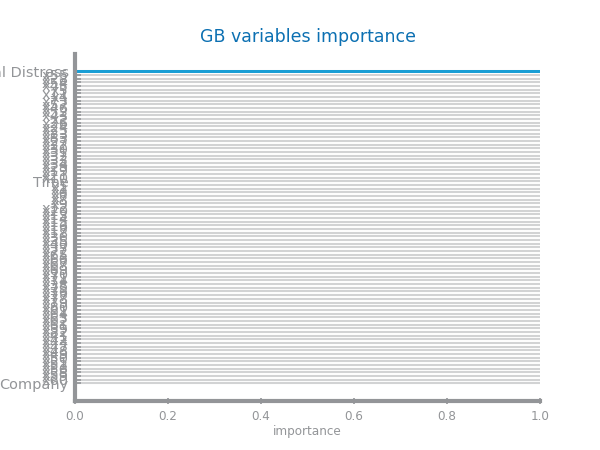
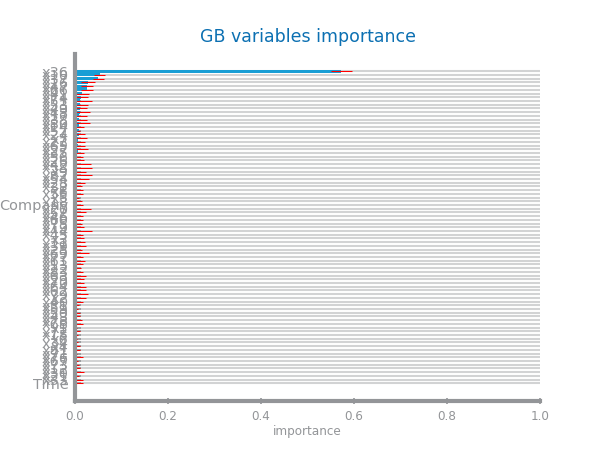
RF e GB sem variavel

Changed region(s): [[0.0, 0.1556, 0.9, 0.8711]]

diff --git a/Classification/drop_financial_distress.py b/Classification/drop_financial_distress.py
@@ -25,8 +25,8 @@ def drop_column(input_file: str, output_file: str, column_to_drop: str) -> None:
 
 # Example usage
 if __name__ == "__main__":
-    input_path = "Data/test_class_financial_distress_smote.csv"        # Replace with your input file path
-    output_path = "Data/test_class_financial_distress_smote.csv"       # Replace with your desired output file path
+    input_path = "Data/train_class_financial_distress_smote.csv"        # Replace with your input file path
+    output_path = "Data/train_class_financial_distress_smote.csv"       # Replace with your desired output file path
     column_name = "Financial Distress" # Replace with the column name to drop
     
     drop_column(input_path, output_path, column_name)

diff --git a/Feature_Engineering/processing_feature_selection_redundant_variables_economical.py b/Feature_Engineering/processing_feature_selection_redundant_variables_economical.py
@@ -1,13 +1,13 @@
 from pandas import Series
 from pandas import DataFrame, Index, read_csv
-from Classification.dslabs_functions import (
+from dslabs_functions import (
     select_redundant_variables,
     study_redundancy_for_feature_selection,
      apply_feature_selection
 )
 from math import ceil
 from matplotlib.pyplot import savefig, show, figure
-from Classification.dslabs_functions import HEIGHT, evaluate_approach, plot_multiline_chart
+from dslabs_functions import HEIGHT, evaluate_approach, plot_multiline_chart
 
 
 target = "CLASS"

diff --git a/Classification/processing_RF_economical.py b/Classification/processing_RF_economical.py
@@ -65,8 +65,8 @@ def random_forests_study(
     return best_model, best_params
 
 file_tag = "class_financial_distress"
-train_filename = "Data/class_financial_distress/Classification/train_class_financial_distress_smote.csv"
-test_filename = "Data/class_financial_distress/Classification/test_class_financial_distress_smote.csv"
+train_filename = "Data/train_class_financial_distress_smote.csv"
+test_filename = "Data/test_class_financial_distress_smote.csv"
 target = "CLASS"
 eval_metric = "accuracy"
 

diff --git a/Classification/processing_GB_economical.py b/Classification/processing_GB_economical.py
@@ -67,8 +67,8 @@ def gradient_boosting_study(
 
 
 file_tag = "class_financial_distress"
-train_filename = "Data/class_financial_distress/Classification/train_class_financial_distress_smote.csv"
-test_filename = "Data/class_financial_distress/Classification/test_class_financial_distress_smote.csv"
+train_filename = "Data/train_class_financial_distress_smote.csv"
+test_filename = "Data/test_class_financial_distress_smote.csv"
 target = "CLASS"
 eval_metric = "accuracy"
 
